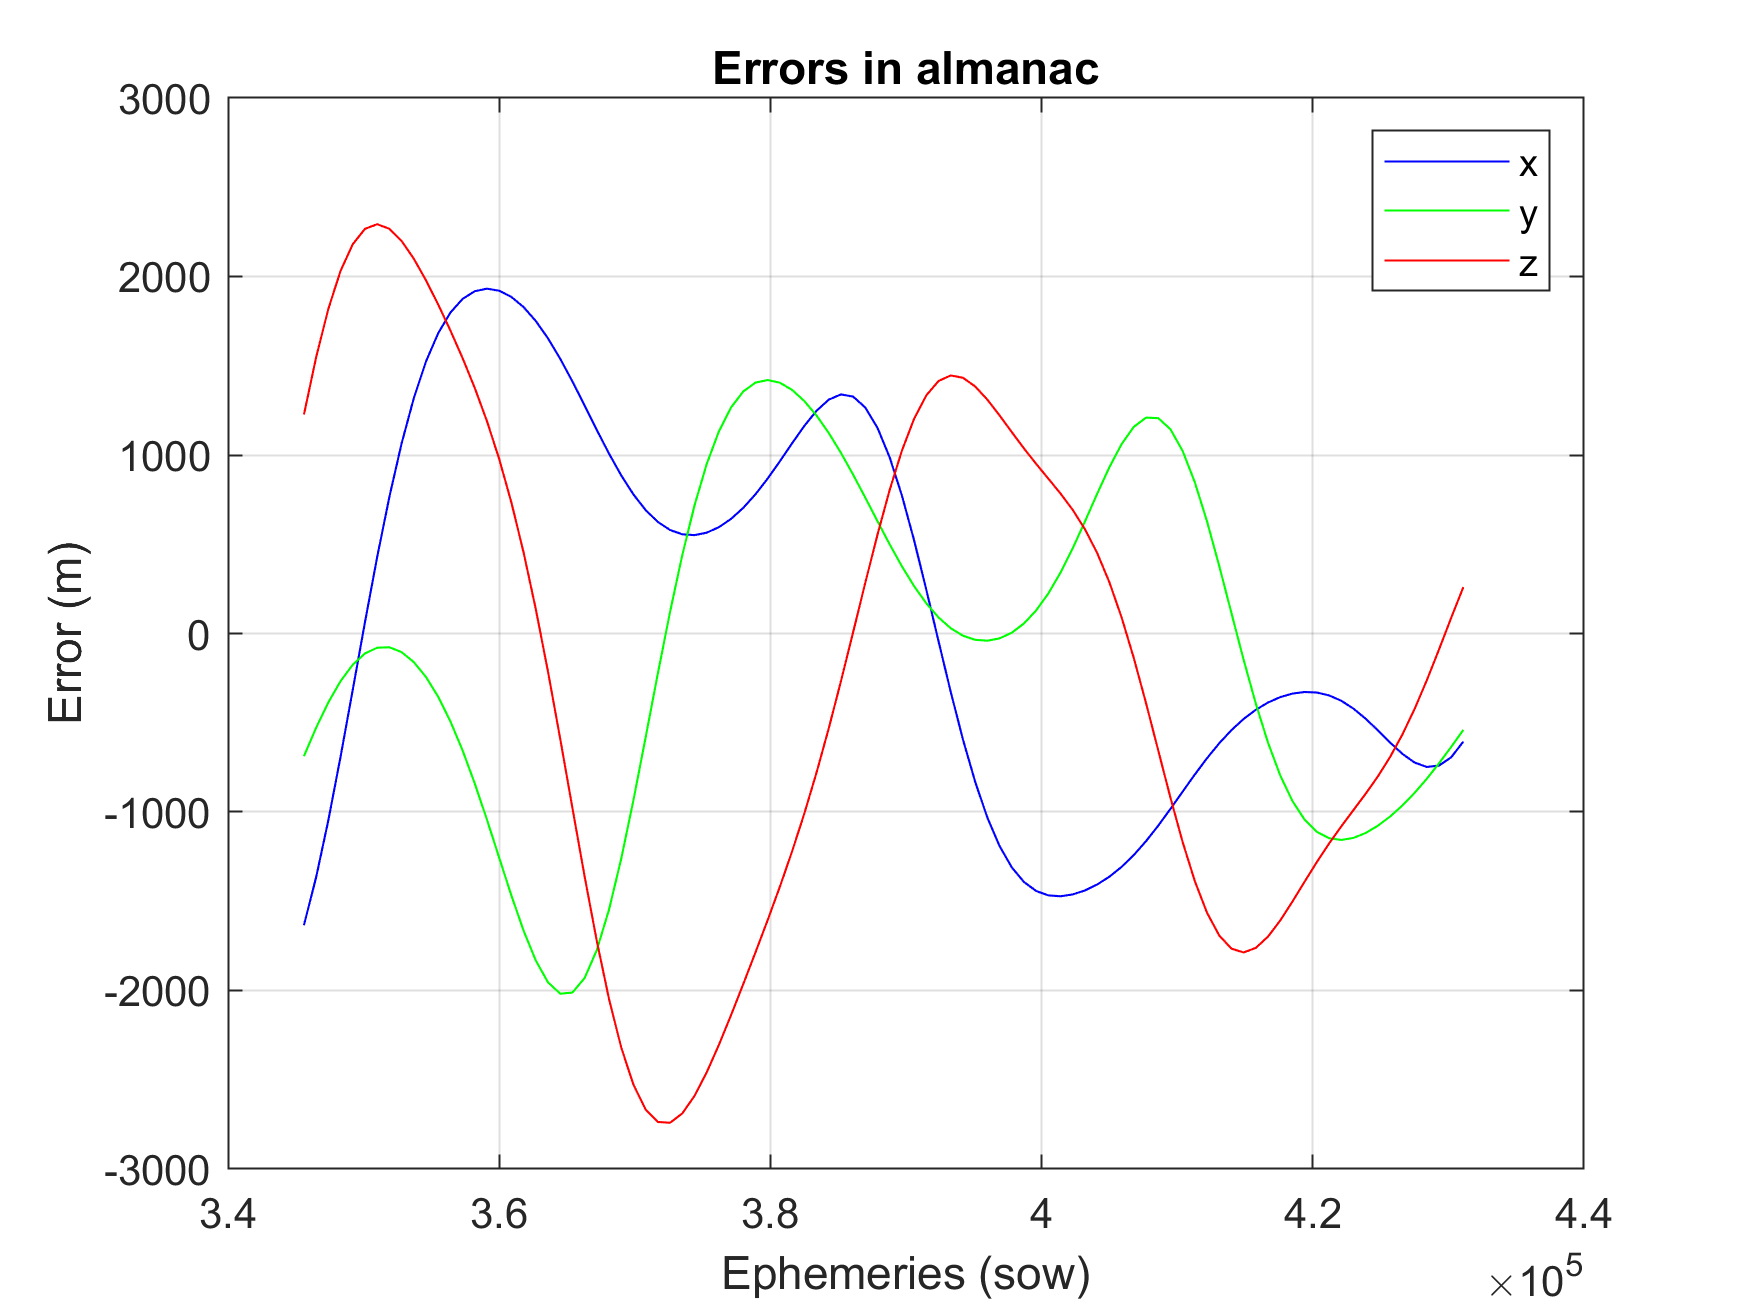
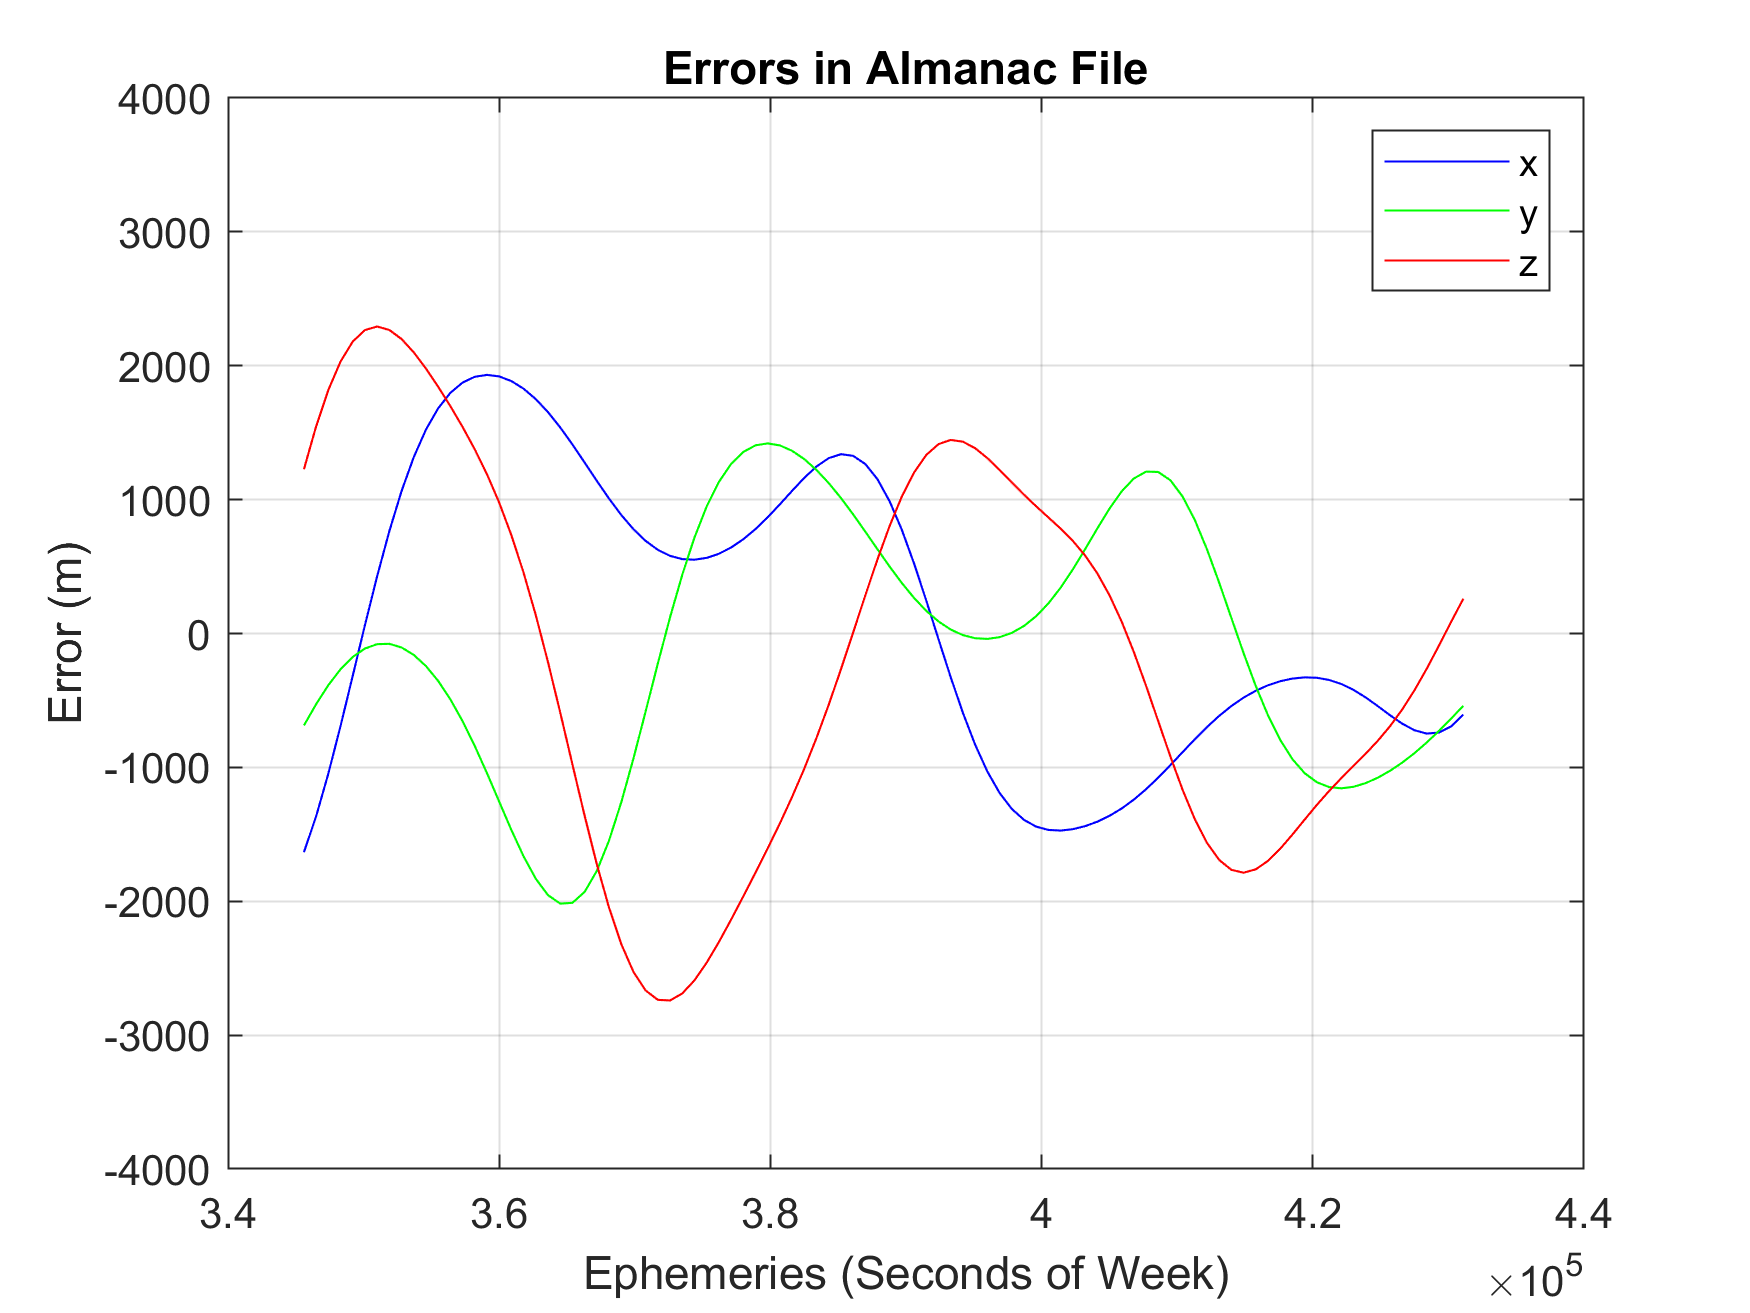
task 3 and better sky plot

diff --git a/Matlab/main.m b/Matlab/main.m
@@ -44,16 +44,16 @@ truepos = load("true pos.txt");
 
 %% Read Files
 refsat=readSP3(preciseFile);   %%Read the sp3 file
-%% Sky plot of satellkite
-   %calculate the vector from receiver to satellites in xyz
+%% Sky plot of satellite
+%    %calculate the vector from receiver to satellites in xyz
    xyz_kr = [refsat(:,4)*1000-truepos(1,1), refsat(:,5)*1000-truepos(1,2), refsat(:,6)*1000-truepos(1,3)];
-   
-   %transform the vector to ENU
-   %assume sphere, all in radians
+%    
+%    %transform the vector to ENU
+%    %assume sphere, all in radians
    lat = asin(truepos(1,3)/(sqrt(truepos(1,1)^2+truepos(1,2)^2+truepos(1,3)^2)));
    lon = asin(truepos(1,2)/(sqrt(truepos(1,1)^2+truepos(1,2)^2+truepos(1,3)^2)))/cos(lat);
    R = [-sin(lon), cos(lon), 0; -sin(lat)*cos(lon), -sin(lat)*sin(lon), cos(lat); cos(lat)*cos(lon), cos(lat)*sin(lon), sin(lat)];
-   
+%    
    enu = zeros(size(xyz_kr, 1), size(xyz_kr,2));
    for i = 1:size(xyz_kr, 1)
        enu(i,1:3) = transpose(R*transpose(xyz_kr(i,1:3)));
@@ -62,20 +62,37 @@ refsat=readSP3(preciseFile);   %%Read the sp3 file
    %calculate the azimuth and elevation
    ele = asind(enu(:,3)./sqrt(enu(:,1).^2+enu(:,2).^2+enu(:,3).^2));
    azi = atan2d(enu(:,1), enu(:,2));
+   ele = [ele, refsat(:,1)];
    
    %plot the sky plot
+   %find indices of non-visible satellites
    ind = [];
    for i = 1:size(ele,1)
        if ele(i,1) < 0
            ind = [ind, i];
        end 
    end
-   ele(ind,:) = [];
-   azi(ind,:) = [];
 
-   skyp = skyplot(azi,ele,'.','b');
+   %rearrange for skyplot
+   for prn = 1:32
+       ele_curr = [];
+       azi_curr = [];
+     for ep = 1:size(ele, 1)
+         if ele(ep, 2) == prn
+            if ele(ep,1) < 0
+                ele_curr = [ele_curr; NaN];
+                azi_curr = [azi_curr; NaN];
+            else
+                ele_curr = [ele_curr; ele(ep,1)];
+                azi_curr = [azi_curr; azi(ep,1)];
+            end
+         end
+     end 
+        skyp = skyplot(azi_curr,ele_curr,'-');
+        hold on;
+   end 
    
-   %calculate the DOP
+ %% calculate the DOP
    vis_sat = refsat;
    vis_sat(ind,:) = [];
    vis_sat(:, 4:6) = vis_sat(:, 4:6)*1000;
@@ -103,13 +120,28 @@ refsat=readSP3(preciseFile);   %%Read the sp3 file
            DOP = [DOP; vis_sat(i,3), sat, sqrt(Q(1,1)), sqrt(Q(2,2)), sqrt(Q(1,1)+Q(2,2)), sqrt(Q(3,3))]; 
        end
    end 
+   figure()
+    hold on;
+    grid on;
+    yyaxis left;
+    plot(DOP(:,1), DOP(:,3), '-b');
+    plot(DOP(:,1), DOP(:,4), '-g');
+    plot(DOP(:,1), DOP(:,5), '-r');
+    ylabel("DOP");
+    ylim([0, 4]);
+    plot(DOP(:,1), DOP(:,6), '-m');
+    yyaxis right;
+    plot(DOP(:,1), DOP(:,2), '-k');
+    legend('EDOP', 'NDOP', 'HDOP', 'VDOP', 'Number of Satellites');
+    title("Dilution of Precision");
+    xlabel("Ephemeries (Seconds of Week)");
+    ylim([0, 22]);
+    ylabel("Number of visible satellites");
+    print(gcf, "DOPs.png", '-dpng', '-r300');
+    hold off;
 %% Parse out PRN 11
 idx=find(refsat(:,1)==prn);
 PRN11=refsat(idx,:);
-%% Plots
-
-%% Statistics
-
 
 %% Task 3
 brdcbest = load("brdcbest.xyz");
@@ -134,7 +166,7 @@ end
 
 for j = 1:size(brdcbest, 1)
     for i = 1:size(pred, 1)
-        if pred(i,1) == 12 && pred(i,3) == brdcbest(j,1)                  %TODO
+        if pred(i,1) == 12 && pred(i,3) == brdcbest(j,1)
             pred12 = [pred12; pred(i, 4:6)*1000];
         end
     end
@@ -162,8 +194,8 @@ plot(ephem(:,1), err_brdcbest(:,2), '-g');
 plot(ephem(:,1), err_brdcbest(:,3), '-r');
 %plot(ephem(:,1), sqrt(err_brdcbest(:,1).^2+err_brdcbest(:,2).^2+err_brdcbest(:,3).^2), '-k');
 legend('x', 'y', 'z');
-title("Errors in brdcbest");
-xlabel("Ephemeries (sow)");
+title("Errors in Best Broadcast File");
+xlabel("Ephemeries (Seconds of Week)");
 ylabel("Error (m)");
 ylim([-4, 4]);
 print(gcf, "brdcbest_errors.png", '-dpng', '-r300');
@@ -177,10 +209,10 @@ plot(ephem(:,1), err_brdc24hr(:,2), '-g');
 plot(ephem(:,1), err_brdc24hr(:,3), '-r');
 %plot(ephem(:,1), sqrt(err_brdcbest(:,1).^2+err_brdcbest(:,2).^2+err_brdcbest(:,3).^2), '-k');
 legend('x', 'y', 'z');
-title("Errors in brdc24hr");
-xlabel("Ephemeries (sow)");
+title("Errors in 24hr Broadcast File");
+xlabel("Ephemeries (Seconds of Week)");
 ylabel("Error (m)");
-%ylim([-4, 4]);
+ylim([-1200, 1200]);
 print(gcf, "brdc24hr_errors.png", '-dpng', '-r300');
 hold off;
 
@@ -192,10 +224,10 @@ plot(ephem(:,1), err_almanac(:,2), '-g');
 plot(ephem(:,1), err_almanac(:,3), '-r');
 %plot(ephem(:,1), sqrt(err_brdcbest(:,1).^2+err_brdcbest(:,2).^2+err_brdcbest(:,3).^2), '-k');
 legend('x', 'y', 'z');
-title("Errors in almanac");
-xlabel("Ephemeries (sow)");
+title("Errors in Almanac File");
+xlabel("Ephemeries (Seconds of Week)");
 ylabel("Error (m)");
-%ylim([-4, 4]);
+ylim([-4000, 4000]);
 print(gcf, "almanac_errors.png", '-dpng', '-r300');
 hold off;
 
@@ -207,10 +239,10 @@ plot(ephem(:,1), err_obs(:,2), '-g');
 plot(ephem(:,1), err_obs(:,3), '-r');
 %plot(ephem(:,1), sqrt(err_brdcbest(:,1).^2+err_brdcbest(:,2).^2+err_brdcbest(:,3).^2), '-k');
 legend('x', 'y', 'z');
-title("Errors in obs");
-xlabel("Ephemeries (sow)");
+title("Errors in Observation File");
+xlabel("Ephemeries (Seconds of Week)");
 ylabel("Error (m)");
-ylim([-4, 4]);
+ylim([-1, 1]);
 print(gcf, "obs_errors.png", '-dpng', '-r300');
 hold off;
 
@@ -222,12 +254,13 @@ plot(ephem(:,1), err_pred(:,2), '-g');
 plot(ephem(:,1), err_pred(:,3), '-r');
 %plot(ephem(:,1), sqrt(err_brdcbest(:,1).^2+err_brdcbest(:,2).^2+err_brdcbest(:,3).^2), '-k');
 legend('x', 'y', 'z');
-title("Errors in pred");
-xlabel("Ephemeries (sow)");
+title("Errors in Predicted File");
+xlabel("Ephemeries (Seconds of Week)");
 ylabel("Error (m)");
-ylim([-4, 4]);
+ylim([-1, 1]);
 print(gcf, "pred_errors.png", '-dpng', '-r300');
 hold off;
+
 
 
 
